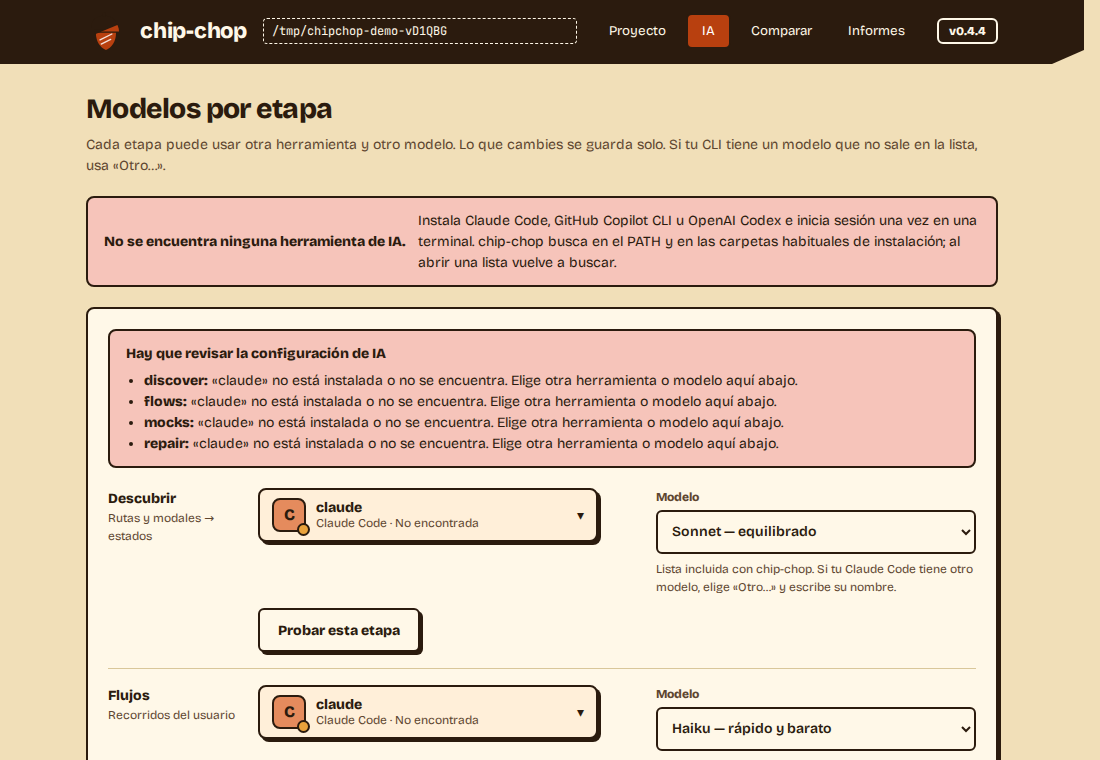
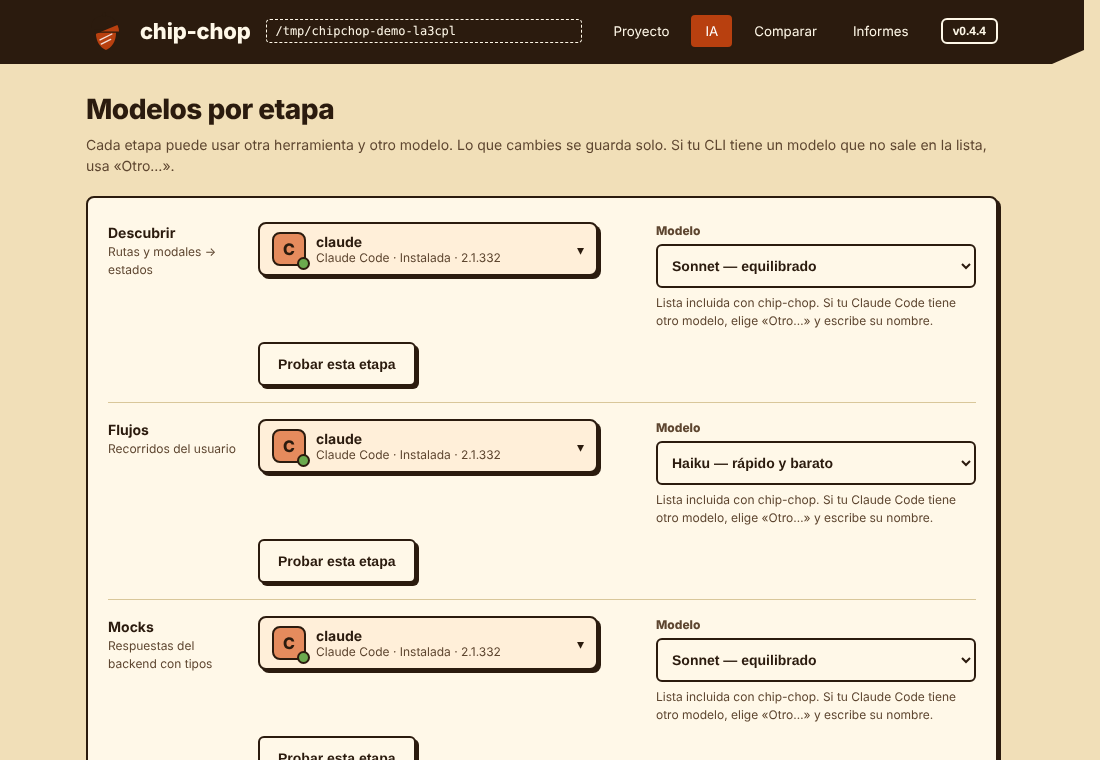
feat: configuración básica de IA por herramienta en la configuración inicial
Claude-Session: https://claude.ai/code/session_01Qr3kqMVE8c9z2DNr7QQw96

diff --git a/desktop/home/home.js b/desktop/home/home.js
@@ -243,13 +243,36 @@
     var chrom = c.installed ? badge("Listo", "ok") : installingChromium ? '<div><b><span class="spin"></span>Descargando el navegador de capturas…</b><div class="small mut">Chip Chop usa su propio Chromium para fotografiar tu app sin tocar tu navegador. Se descarga una sola vez (unos 150 MB) y puede tardar un par de minutos.</div><pre class="log" id="chromiumLog" style="margin-top:8px">' + esc(chromiumLog) + '</pre></div>' : chromiumFailed ? '<div class="banner er"><div class="grow"><b>No se pudo descargar el navegador</b><div class="small">Comprueba la conexión (o el proxy) y reintenta.</div></div><button class="btn p" id="dlChromium">Reintentar</button></div>' : badge("Preparando…", "wa");
     $("setup").innerHTML = '<div><h1>Vamos a dejarlo listo</h1><p class="sub">Dos cosas antes de empezar: el navegador con el que se hacen las capturas y la IA que preparará el catálogo de tu app. Solo se hace una vez; después puedes cambiarlo en Ajustes e IA.</p></div>' +
       '<div class="card"><div class="row"><span class="num">1</span><div class="grow"><b>Navegador de capturas</b></div></div><div style="margin-top:12px">' + chrom + '</div></div>' +
-      '<div class="card"><div class="row"><span class="num">2</span><div class="grow"><b>Tu herramienta de IA</b><div class="small mut">Elige la que ya tengas (Claude Code, GitHub Copilot u OpenAI Codex) y el modelo de cada etapa. Se guarda solo.</div></div></div>' + (ai.error ? '<div class="banner er" style="margin-top:12px">El archivo ' + esc(ai.globalPath) + ' tiene un error: corrígelo y pulsa Recargar. <button class="btn" id="reloadSetup">Recargar</button></div>' : warnings() + '<div id="aiTools" style="margin:12px 0">' + toolsHtml(ai.info || {}) + '</div><div id="aiEd"></div>') + '</div>' +
+      '<div class="card"><div class="row"><span class="num">2</span><div class="grow"><b>Tu herramienta de IA</b><div class="small mut">Elige la que ya tengas (Claude Code, GitHub Copilot u OpenAI Codex) y el modelo de cada etapa. Se guarda solo.</div></div></div>' + (ai.error ? '<div class="banner er" style="margin-top:12px">El archivo ' + esc(ai.globalPath) + ' tiene un error: corrígelo y pulsa Recargar. <button class="btn" id="reloadSetup">Recargar</button></div>' : warnings() + presetHtml() + '<div id="aiTools" style="margin:12px 0">' + toolsHtml(ai.info || {}) + '</div><div id="aiEd"></div>') + '</div>' +
       '<div id="setupFoot" class="row"></div>';
     if ($("dlChromium")) $("dlChromium").onclick = startChromium;
     if ($("reloadSetup")) $("reloadSetup").onclick = function () { load().catch(fail); };
     onAiSaved = footSetup;
-    if (!ai.error) mountAiEditor($("aiEd"), $("aiTools"));
+    if (!ai.error) { mountAiEditor($("aiEd"), $("aiTools")); bindPreset(); autoPreset(); }
     footSetup();
+  }
+  // «Configuración básica»: una herramienta para las 4 etapas con sus modelos recomendados.
+  var presetTried = false, PROV_ORDER = ["claude", "copilot", "codex"];
+  function presetHtml() {
+    var info = S.ai.info || {}, names = Object.keys(S.ai.providers);
+    return '<div class="card" style="background:var(--bg);margin:12px 0"><b>Configuración básica</b><div class="small mut" style="margin:2px 0 10px">Usa una sola herramienta en las cuatro etapas (descubrir, flujos, mocks y reparar) con los modelos recomendados. Luego puedes afinar cada etapa aquí debajo.</div><div class="row">' +
+      names.map(function (n) { var ok = info[n] && info[n].found; return '<button class="btn" data-preset="' + esc(n) + '"' + (ok ? "" : ' disabled title="No está instalada"') + ">Usar " + esc(n) + (ok ? "" : " (no instalada)") + "</button>"; }).join("") + "</div></div>";
+  }
+  function bindPreset() { document.querySelectorAll("[data-preset]").forEach(function (b) { b.onclick = function () { applyPreset(b.dataset.preset, false); }; }); }
+  function applyPreset(name, auto) {
+    var stages = ChipAi.preset(name, S.ai.info || {}, STAGES.map(function (s) { return s[0]; }));
+    return api.invoke("home:saveAi", stages).then(function () {
+      S.ai.stages = stages; S.ai.problems = ChipAi.problems(stages, S.ai.info || {}); renderSetup();
+      ChipAi.toast(auto ? "He configurado la IA con " + name + ": puedes cambiarlo abajo" : "IA configurada con " + name + " en las 4 etapas", "ok");
+    }, fail);
+  }
+  // Si lo guardado no se puede usar (p. ej. Claude por defecto y no está instalado) pero hay otra herramienta, se deja ya configurada.
+  function autoPreset() {
+    if (presetTried || !window.ChipAi) return; presetTried = true;
+    var info = S.ai.info || {};
+    if (!(S.ai.problems || []).length) return;
+    var pick = PROV_ORDER.filter(function (n) { return info[n] && info[n].found; })[0];
+    if (pick) applyPreset(pick, true);
   }
   function footSetup() {
     var f = $("setupFoot"); if (!f) return;

diff --git a/packages/core/ui/ai-editor.js b/packages/core/ui/ai-editor.js
@@ -29,6 +29,19 @@
     return { html: opts, other: sel === OTHER ? value : "", note: m.note || "", source: m.source };
   }
 
+  // Configuración básica por herramienta: modelo de cada etapa (potente para descubrir/mocks/reparar, barato para flujos).
+  // Claude trae alias fijos; Copilot elige uno económico de SU lista si lo hay; Codex usa el modelo de su config.toml.
+  var PRESET = { claude: { discover: "sonnet", flows: "haiku", mocks: "sonnet", repair: "sonnet" } };
+  function preset(provider, info, ids) {
+    var i = info[provider] || {}, opts = (i.models && i.models.options) || [], base = PRESET[i.type] || {}, out = {};
+    ids.forEach(function (id) {
+      var m = base[id];
+      if (!m && i.type === "copilot" && id === "flows") { var cheap = opts.filter(function (o) { return /mini|haiku|flash|lite/i.test(o.value); })[0]; m = cheap && cheap.value; }
+      var o = { provider: provider }; if (m && (!opts.length || opts.some(function (x) { return x.value === m; }))) o.model = m; out[id] = o;
+    });
+    return out;
+  }
+
   /** HTML de las filas. o = { stages:[[id,título,descripción]], cfg:{providers,stages}, info, extra?:(id)=>html } */
   function rows(o) {
     var names = Object.keys(o.cfg.providers);
@@ -155,5 +168,5 @@
   }
   function collect(el) { var o = {}; el.querySelectorAll(".ai-stage").forEach(function (row) { o[row.dataset.stage] = read(row); }); return o; }
 
-  root.ChipAi = { rows: rows, bind: bind, collect: collect, read: read, toast: toast, problems: problems };
+  root.ChipAi = { rows: rows, bind: bind, collect: collect, read: read, toast: toast, problems: problems, preset: preset };
 })(window);

diff --git a/README.md b/README.md
@@ -76,7 +76,7 @@ Comprueba que todo está bien con `chip-chop doctor` (o en **Ajustes** de la app
 
 ### 0. Abre la app
 
-La primera vez la app te hace una **configuración inicial**: descarga el navegador de capturas (con su progreso) y te pide elegir tu herramienta de IA y el modelo de cada etapa. Se guarda sola y, cuando todo está bien, pulsas **Empezar** (o «Configurar la IA más tarde»).
+La primera vez la app te hace una **configuración inicial**: descarga el navegador de capturas (con su progreso) y te deja la IA ya configurada: si lo guardado no se puede usar, elige la primera herramienta que tengas instalada y pone su configuración básica en las cuatro etapas (Claude: Sonnet para descubrir, mocks y reparar y Haiku para flujos; Copilot: el modelo económico de su lista para flujos y el predeterminado en el resto; Codex: el de tu `~/.codex/config.toml`). Tú solo ves que el navegador se descarga y qué modelo tiene cada fase, y puedes cambiarlo o pulsar «Usar …» para otra herramienta. Se guarda sola y, cuando todo está bien, pulsas **Empezar** (o «Configurar la IA más tarde»).
 
 ![Configuración inicial](docs/screenshots/home-configuracion-inicial.png)
 

diff --git a/changelog/unreleased/configuracion-inicial-ia.md b/changelog/unreleased/configuracion-inicial-ia.md
@@ -1,4 +1,4 @@
 ---
 type: Added
 ---
-**Configuración inicial y control de la IA:** la primera vez la app descarga el navegador (con progreso) y pide elegir herramienta y modelos de IA. Los cambios en la pestaña IA se guardan solos con un aviso, al elegir herramienta se vuelven a buscar sus modelos (sin botón «Volver a buscar»), «Probar esta etapa» abre una ventana que muestra qué hace y el resultado, y si la herramienta o el modelo elegidos dejan de funcionar no se lanza la IA y se lleva al usuario a su configuración.
+**Configuración inicial y control de la IA:** la primera vez la app descarga el navegador (con progreso) y deja la IA ya configurada con una configuración básica por herramienta (Claude, Copilot o Codex) en las cuatro etapas, que se puede cambiar. Los cambios en la pestaña IA se guardan solos con un aviso, al elegir herramienta se vuelven a buscar sus modelos (sin botón «Volver a buscar»), «Probar esta etapa» abre una ventana que muestra qué hace y el resultado, y si la herramienta o el modelo elegidos dejan de funcionar no se lanza la IA y se lleva al usuario a su configuración.
